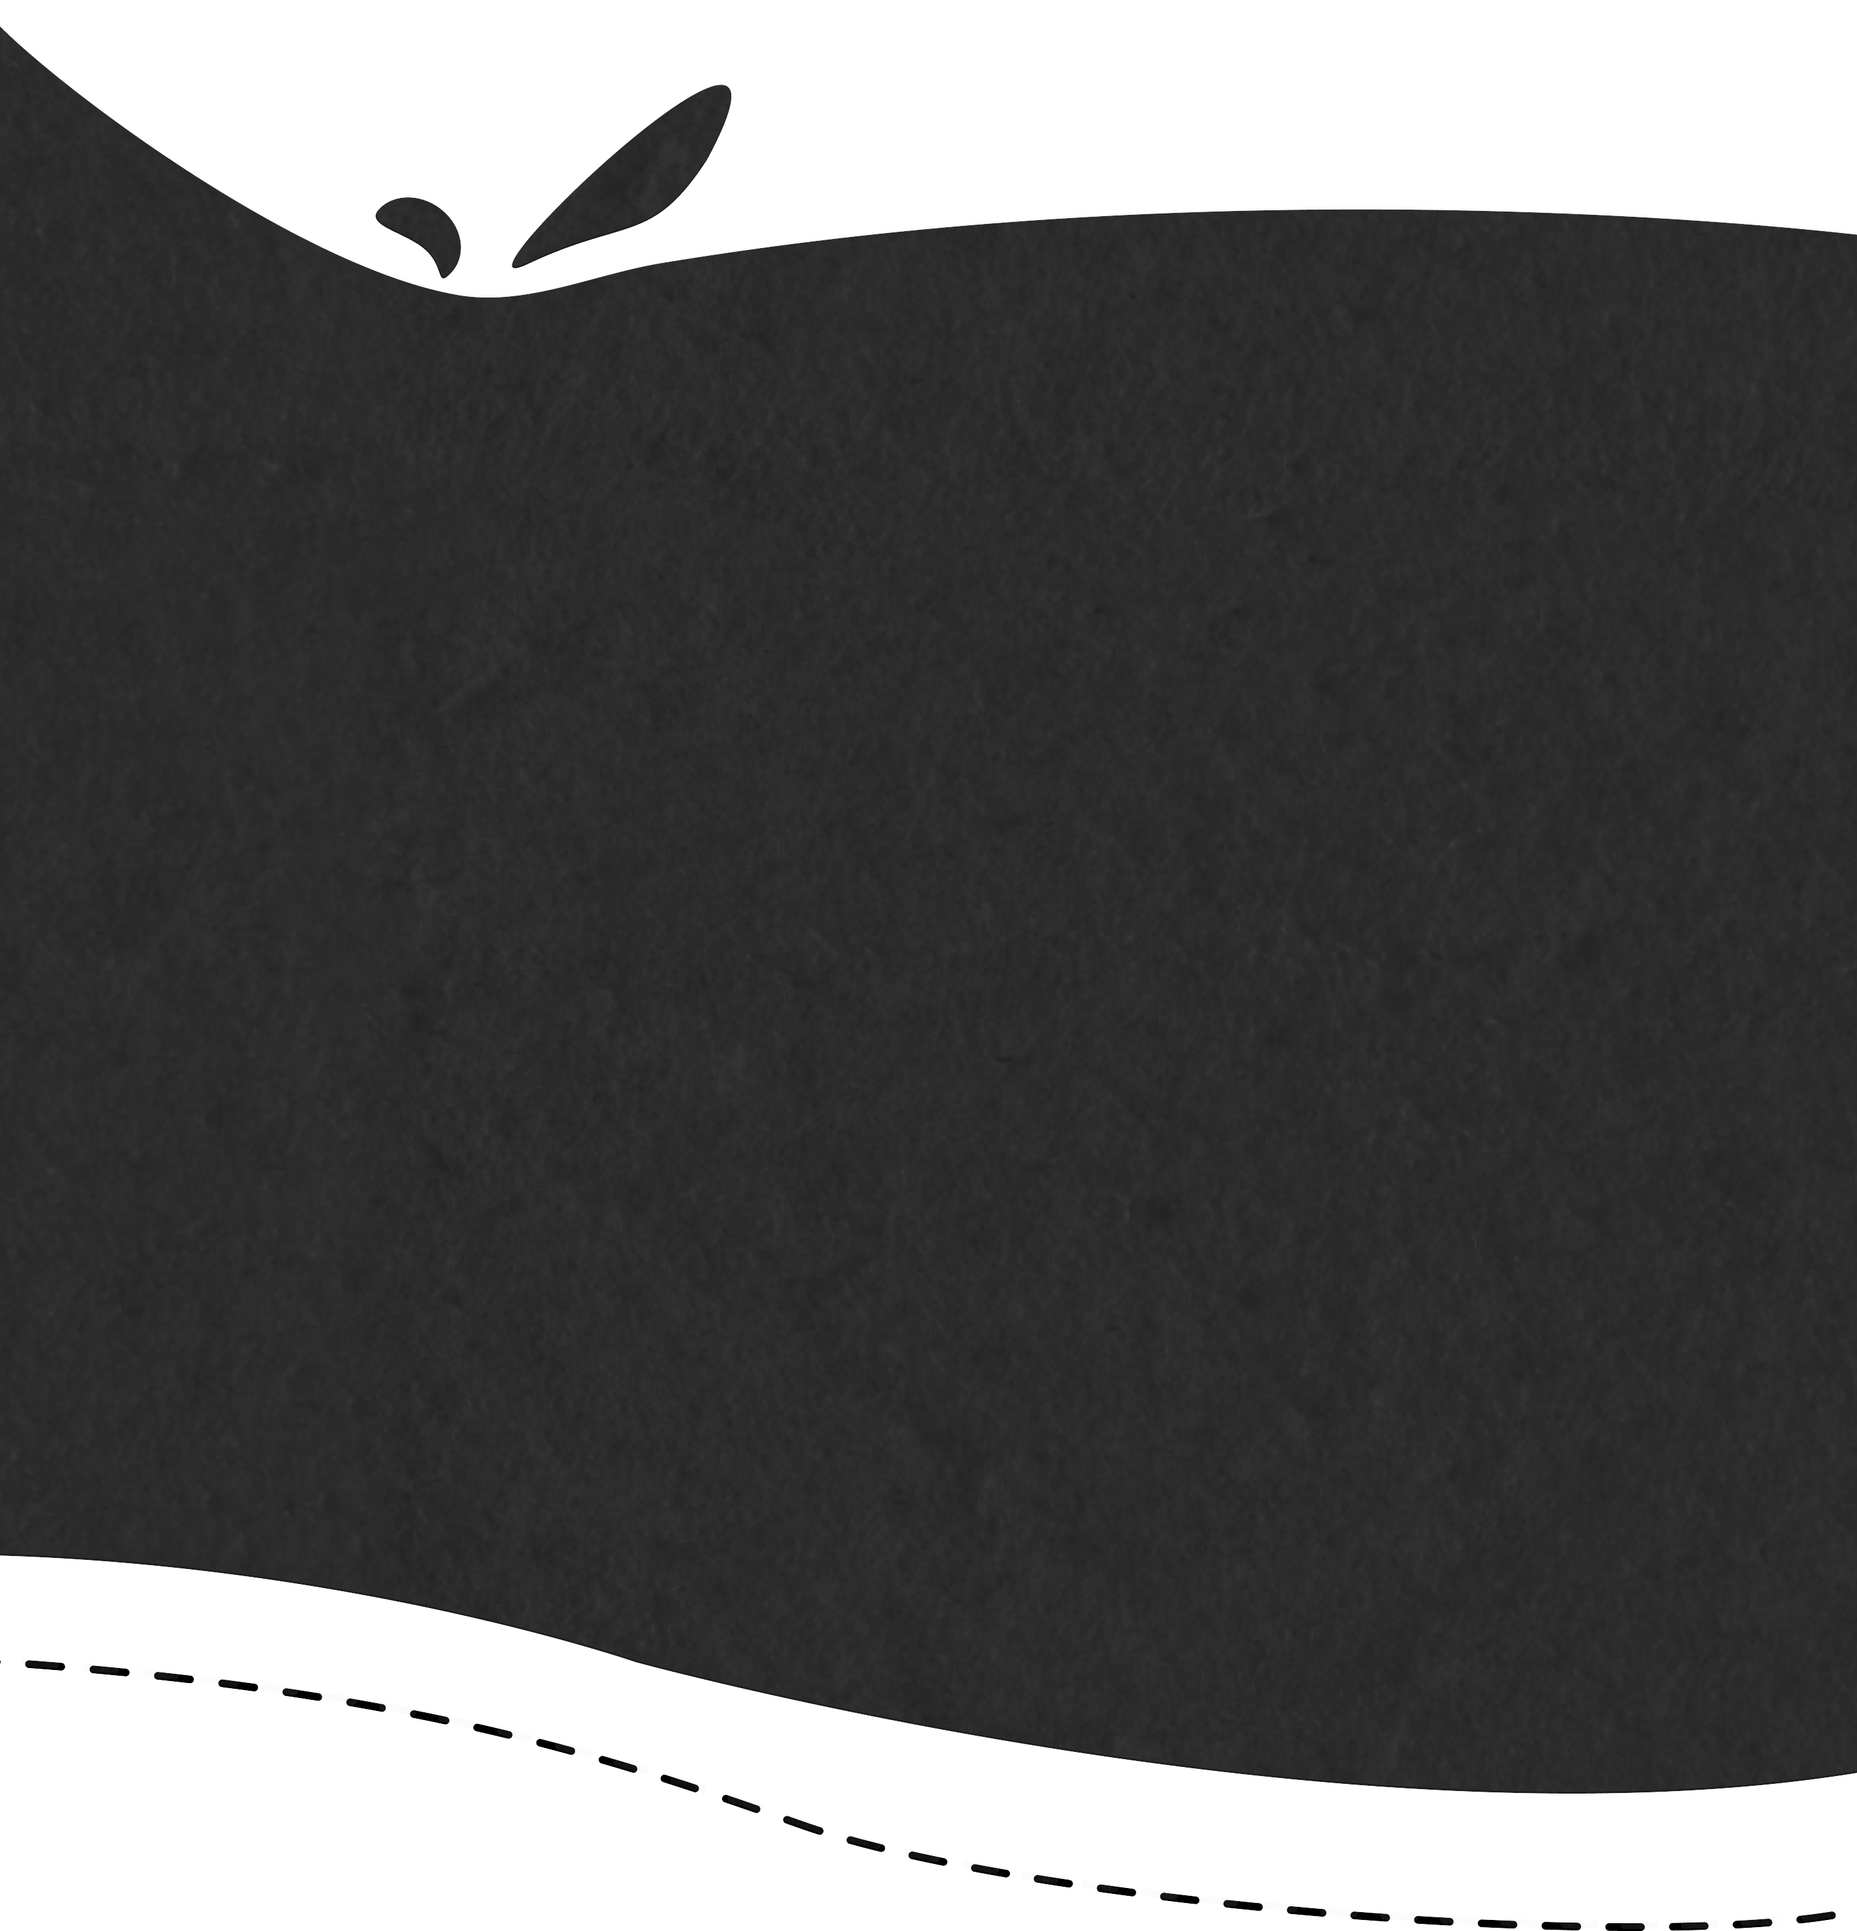
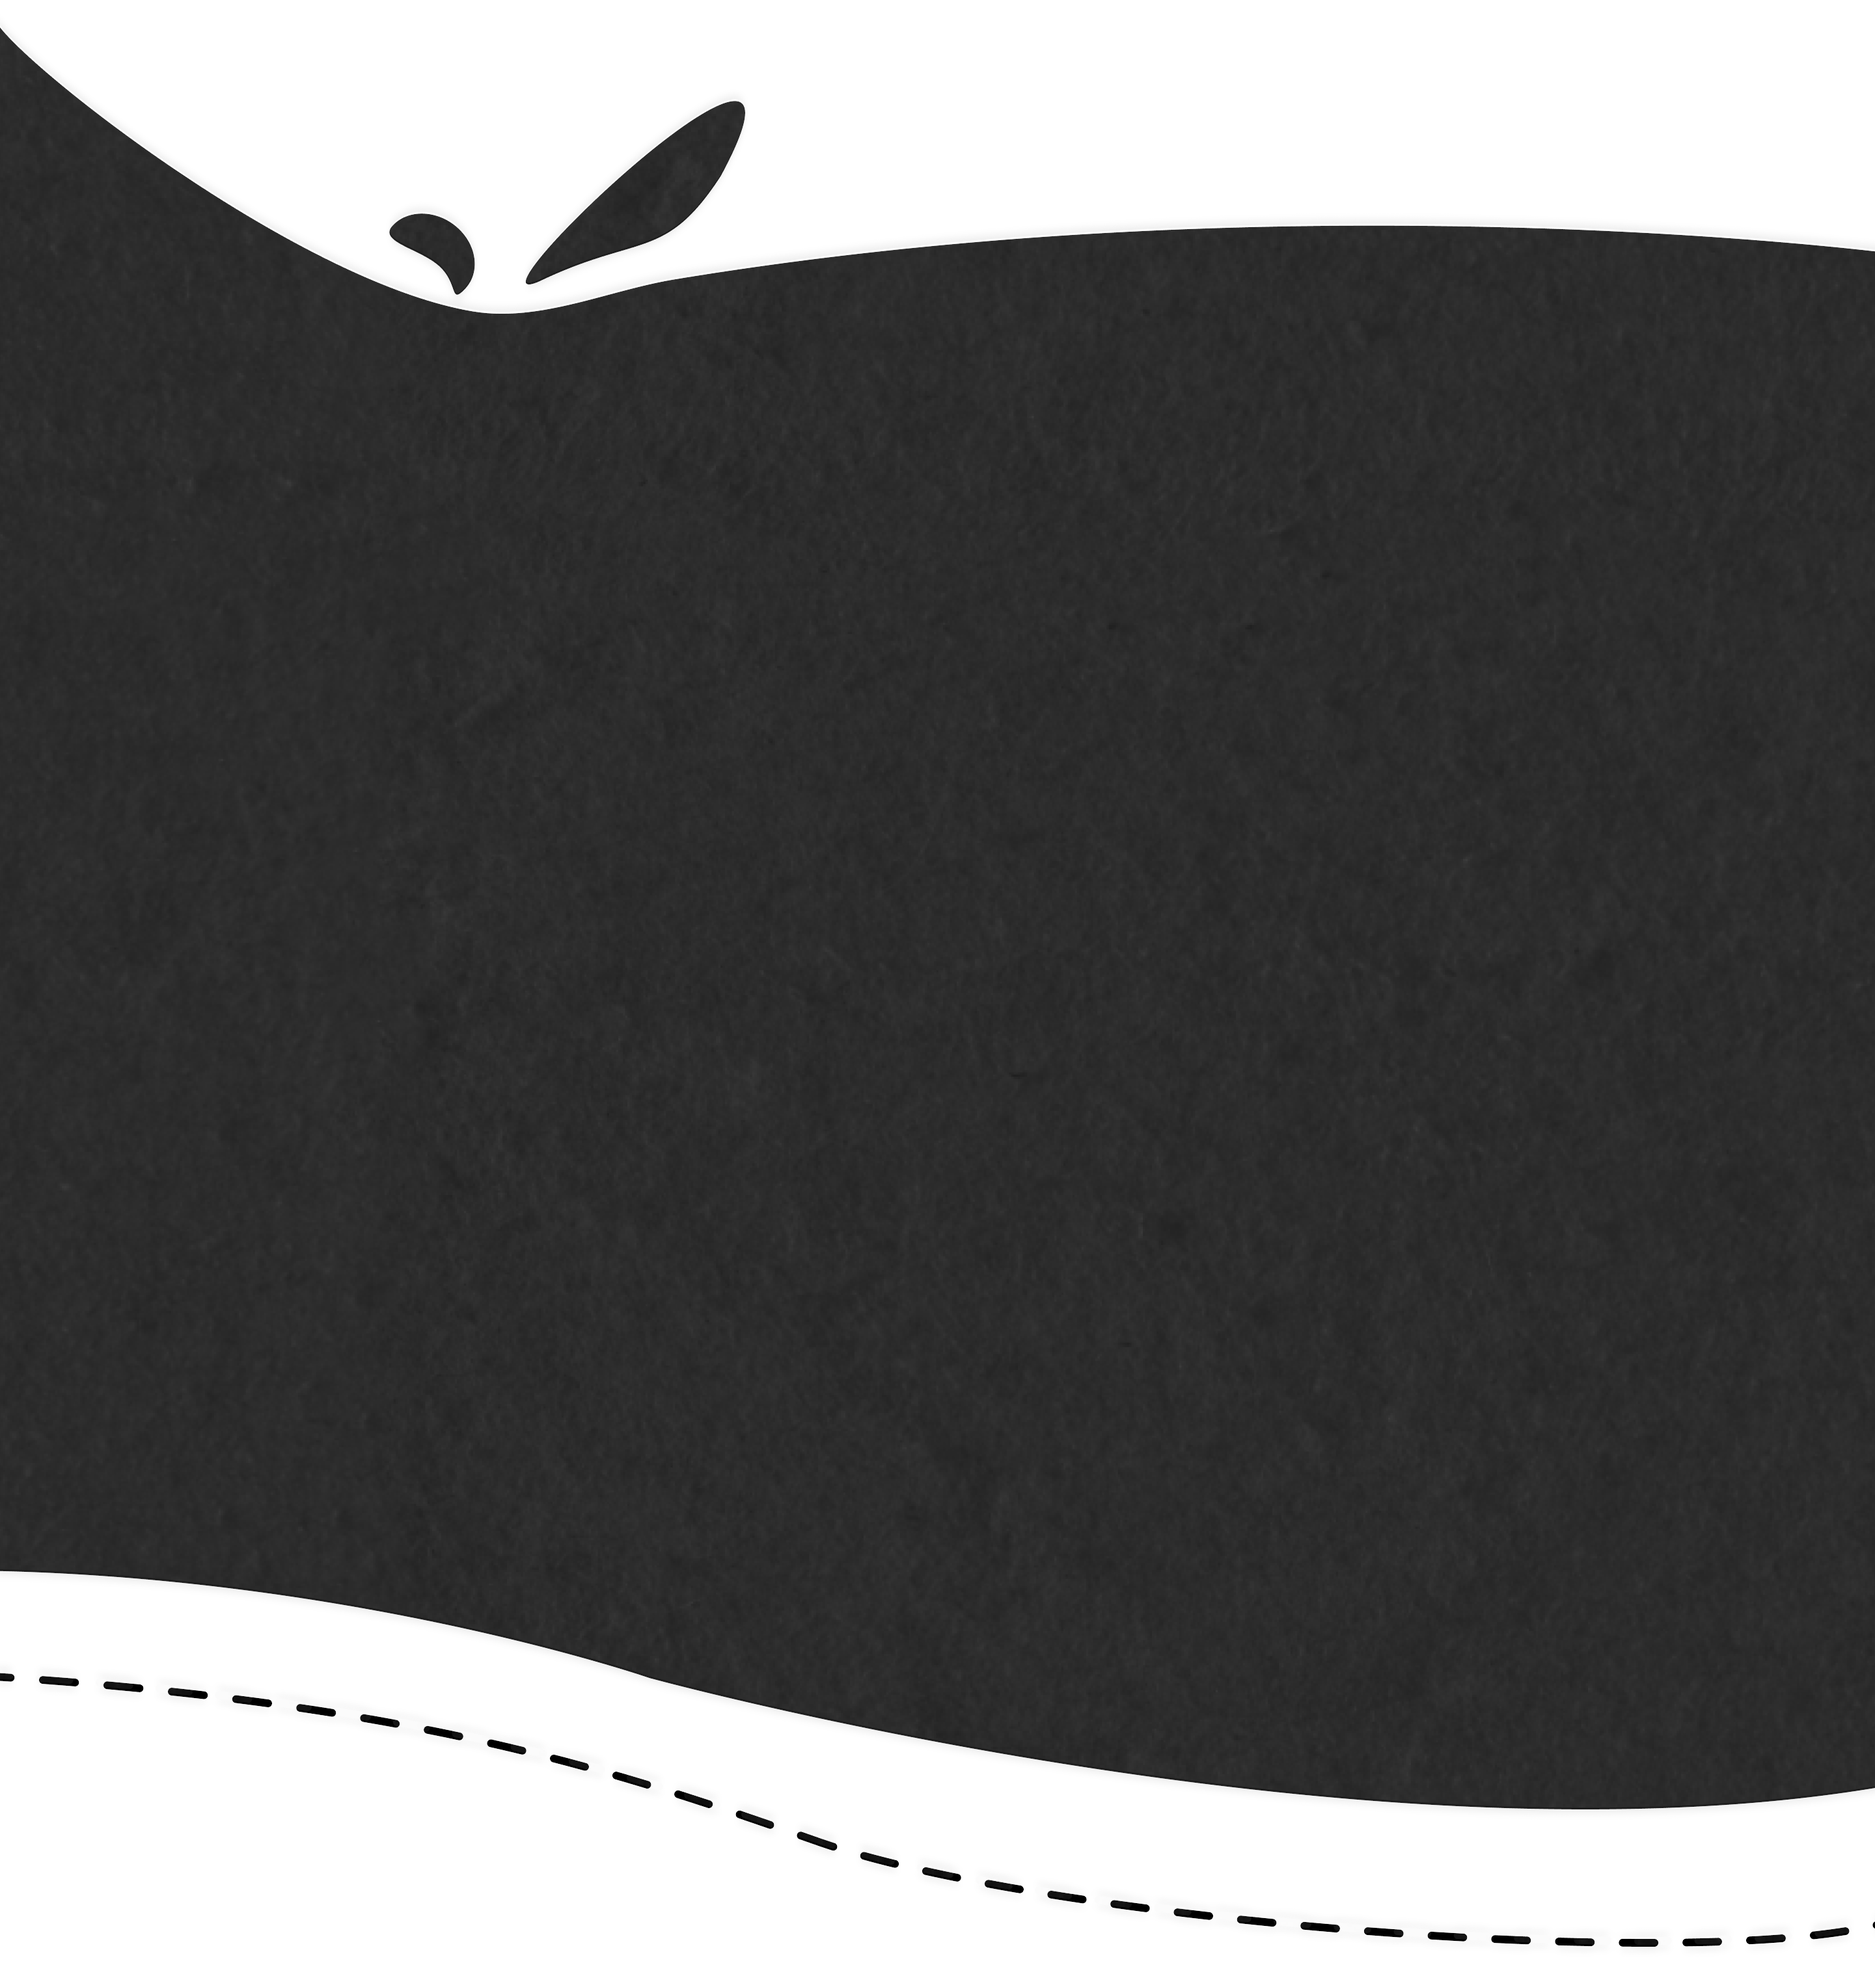
about sectio

diff --git a/app/Components/About/About.jsx b/app/Components/About/About.jsx
@@ -1,8 +1,8 @@
 import Image from "next/image";
 import Header from "@/public/images/assets/about-title.png";
 import Button from "@/public/images/assets/button-back.png";
-import Star1 from "@/public/images/assets/about-star1.png"
-import Star2 from "@/public/images/assets/about-star2.png"
+import Star1 from "@/public/images/assets/about-star1.png";
+import Star2 from "@/public/images/assets/about-star2.png";
 
 export default function About() {
   return (
@@ -21,16 +21,25 @@ export default function About() {
             things also I think twitter{" "}
           </p>
           <a
-            href=""
+            href="https://drive.google.com/file/d/1nWXps5Bt0V0rjk2kSD9ZC8ZGfVOMAEa8/view?usp=sharing"
+            target="_blank"
             className="bg-[url('/images/assets/button-back.png')] bg-contain bg-no-repeat bg-center 
-            w-fit px-12 py-6 
+            w-fit px-12 py-6 z-50
             text-lightcolour text-xl"
           >
             Resume
           </a>
         </section>
-        <Image src={Star1} alt="" className="absolute w-36 -top-32 left-24 opacity-70"/>
-        <Image src={Star2} alt=""  className="absolute w-44 -top-12 -right-40 opacity-70"/>
+        <Image
+          src={Star1}
+          alt=""
+          className="absolute w-36 -top-32 left-24 opacity-70"
+        />
+        <Image
+          src={Star2}
+          alt=""
+          className="absolute w-44 -top-12 -right-40 opacity-70"
+        />
       </div>
       <Image src={Button} alt="" className="m-auto" />
     </section>

diff --git a/app/Components/Works/Card.jsx b/app/Components/Works/Card.jsx
@@ -6,7 +6,7 @@ export default function Card({ title, descrip, tools, project }) {
     <a
       href="/"
       className="bg-[url('/images/backgrounds/felt-texture2.png')] px-12 py-6 rounded-lg 
-    flex flex-col gap-4
+    flex flex-col gap-4 z-50 shadow-2xl
     font-[family-name:var(--font-reddit-mono)]"
     >
       <Image src={Star} alt="" className="h-72 w-auto" />
@@ -18,7 +18,7 @@ export default function Card({ title, descrip, tools, project }) {
         {tools.map((skill, index) => (
           <li
             key={index}
-            className="bg-maincolour text-lightcolour px-4 py-2 rounded-full"
+            className="bg-maincolour text-lightcolour px-4 py-2 rounded-full bg-[url('/images/backgrounds/felt-texture.png')] bg-no-repeat bg-cover"
           >
             {skill}
           </li>

diff --git a/app/Components/Hero/Hero.jsx b/app/Components/Hero/Hero.jsx
@@ -12,7 +12,7 @@ export default function Hero() {
     <main className="font-[family-name:var(--font-reddit-mono)] h-[450px]">
       <div className="relative">
         <div className="flex justify-center mt-48">
-          <Image src={Felt} alt="" className="absolute z-40 -top-96 w-full" />
+          <Image src={Felt} alt="" className="absolute z-40 -top-96 w-screen h-[200rem]" />
           <div className="absolute z-10 w-3/12">
             <Image src={Character} alt="character" className="relative" />
             <Image

diff --git a/app/globals.css b/app/globals.css
@@ -2,11 +2,12 @@
 @tailwind components;
 @tailwind utilities;
 
-:root{
-    overflow-x: hidden;
-    margin: 0;
-    box-sizing: border-box;
+:root {
+  overflow-x: hidden;
+  margin: 0;
+  box-sizing: border-box;
 }
 body {
-background-color: #7790ED;
+
+  background-color: #7790ed;
 }
